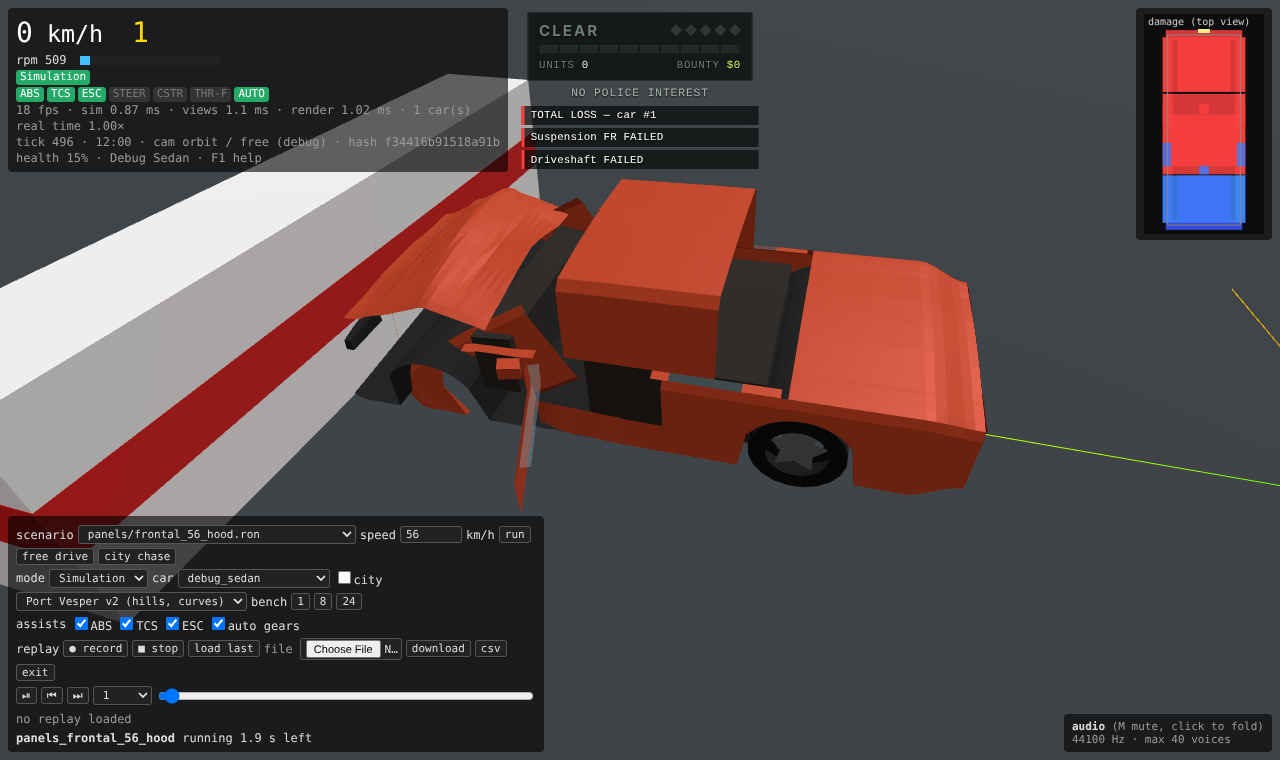
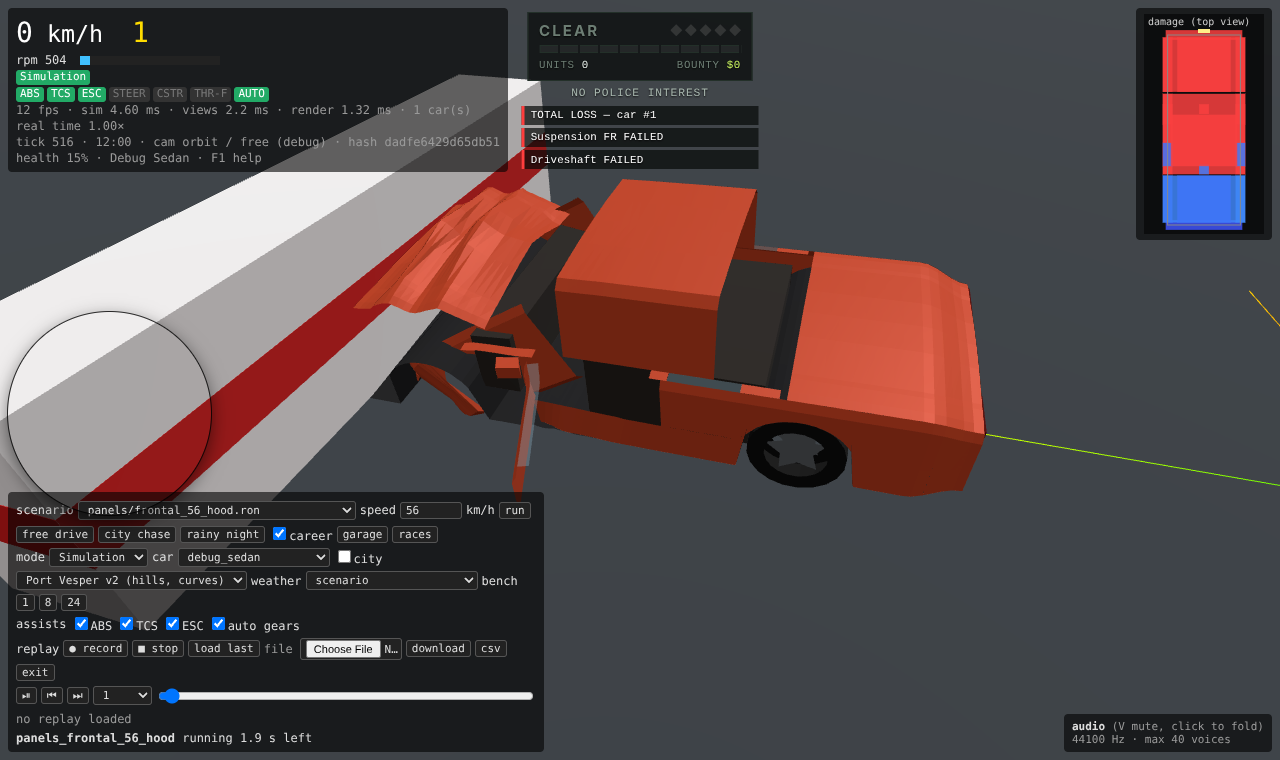
panels: round 12b crumple — browser check, before/after shots, docs
panels_shots.mjs checks the 50 km/h car hit (hood buckles, nose follows the crushed
front, fenders buckle); crumple before/after shots at 8 m / 30 m; mesh format 3 docs;
integration doc round 12b section with the measurement matrix.

Claude-Session: https://claude.ai/code/session_01BwBsLY6QZWcB8th8KqTLUJ

diff --git a/tools/assets/src/skin.rs b/tools/assets/src/skin.rs
@@ -519,7 +519,7 @@ pub fn deform_detail(
     });
     let mut out = Vec::with_capacity(part.vertex_count());
     let mut detail = vec![[0.0f32; 2]; part.vertex_count()];
-    for v in 0..part.vertex_count() {
+    for (v, dv) in detail.iter_mut().enumerate() {
         let r = part.vertex(v);
         let mut p = r;
         if part.skin_nodes.len() == part.vertex_count() * 4 {
@@ -538,10 +538,10 @@ pub fn deform_detail(
             let lead = f.weights[v * 3 + 2] as f32 / 255.0;
             let rear = if free { FOLD_REAR_LIFT * lift } else { 0.0 };
             let rise = c.height * (crease + rear) + c.pop * lead * lead;
-            for k in 0..3 {
-                p[k] += f.dir[k] * rise - c.u[k] * c.extra * lead;
+            for (k, pk) in p.iter_mut().enumerate() {
+                *pk += f.dir[k] * rise - c.u[k] * c.extra * lead;
             }
-            detail[v] = [rise, c.extra * lead];
+            *dv = [rise, c.extra * lead];
         }
         out.push(p);
     }

diff --git a/docs/integration/panels.md b/docs/integration/panels.md
@@ -24,15 +24,16 @@
   the lattice allows, front doors, rear doors on 4-door lattices, fenders as synthetic groups).
 - **Meshes**: `data/panels/meshes/<car>.json` for all 16 cars, 3.5k–4.6k tris, ~36 parts (one per
   region + glass, lights, mirrors, interior, underbody, wheels), skinned region-aware to the lattice.
-- **Hood crumple (playtest row 31)**: hood and trunk lids buckle. The lattice hood is a flat
-  3×5 node sheet that shortens and slides back in a frontal but never folds, so the mesh used to
-  slide back flat. The mesh now carries a fold binding (format 2: hinge→latch node chords +
-  per-vertex crease / rear-lift weights); the renderer turns each chord's lost length into a fold
-  height (inextensible tent, 1.5 cm dead zone, ≤ 0.3 m): a peak a little ahead of mid-hood with a
-  diagonal skew and a second crease toward the latch, plus a raised rear edge once the hood is
-  unlatched. 56 km/h full-width frontal (real sim, Rapier barrier): hood vertices move 0.33–0.48 m,
-  fold 0.22 m (debug_sedan, sentinel_cruiser); 40 km/h Arcade: 0.19 m / 0.16 m. A parked car's hood
-  is exactly flat.
+- **Front crumple (playtest row 31, lead feedback round 12b)**: hood, trunk lid and front fenders
+  crumple in the renderer (visual only; lattice, hull, mechanical damage and repair bill
+  unchanged). Mesh format 3 `fold` binding: the panel's leading end follows the crushed front
+  structure (bumper, frame, fender noses; a hanging bumper is rotated back to the crushed pose it
+  was released in), the shortening × a visual gain (hood 1.8, trunk 1.4, fenders 1.5) becomes a
+  fold — two diagonal ridges with a valley, tented at the centre line (lids, ≤ 0.28 m) or an
+  outward buckle ahead of the wheel (fenders, ≤ 0.12 m) — and an unlatched lid pops 9 cm at the
+  latch and bows up at the hinge. The renderer keeps the deepest crumple per chord (no spring-back)
+  and clears it on repair. 50 km/h Arcade frontal: hood fold 0.21–0.28 m, 2–4 fold lines, nose on
+  the crushed front (± 1 cm); see the round 12b section for the full matrix. A parked car is flat.
 - **Lights (playtest rows 22, 31)**: head/tail lenses sit on the outer surface of the nose / tail
   face (15 mm proud, facing out) and are skinned to the nearest bumper, hood/trunk, same-side
   fender/quarter and frame nodes, so they crush and move with the bumper and hood. A lens breaks
@@ -56,8 +57,11 @@
   unchanged); entity metrics `panels_unlatched`, `panels_hanging`, `max_panel_angle_rad`.
 - wasm `panel_states(entity) -> Float32Array`, `PANEL_STRIDE = 10` floats per panel:
   `[region index, state (0..3), angle, ω, pivot xyz, axis xyz]`.
-- Files: `data/panels/<car>.json`, `data/panels/meshes/<car>.json` (format: `data/panels/README.md`).
-- Tools: `cargo run -p car-assets --bin {gen-panels, gen-car-mesh, bind-skin, validate-car-asset, panels-bench}`.
+- Files: `data/panels/<car>.json`, `data/panels/meshes/<car>.json` (format 3: `data/panels/README.md`).
+- Tools: `cargo run -p car-assets --bin {gen-panels, gen-car-mesh, bind-skin, validate-car-asset, panels-bench}`;
+  `--example crumple_matrix` (front crumple numbers); `node tools/assets/{panels_shots,crumple_shots}.mjs`.
+- `car_assets::crumple::{render_part, render_detail, measure}` and `car_assets::skin::{deform, deform_detail}`:
+  Rust reference of the browser panel skinning (incl. free-panel frames and the crumple).
 
 ## Needs
 - **C (testbed)**: please keep the small hooks listed below when you edit those files; the
@@ -69,6 +73,11 @@
   `sentinel_bastion`) have all their Trunk nodes on the hinge line, so they cannot swing; a
   second row of tailgate nodes would make them panels. Lattice doors are only ~0.26 m deep
   (real doors ~1 m); the panel spec uses real sizes for inertia/aero, the mesh uses real sizes.
+- **B (damage)**: the visual crumple is driven by lattice node motion (front structure push and
+  the lid's own chord loss), not by component health, so B's Arcade *mechanical* retune does not
+  change it. If the retune also reduces Arcade lattice crush, please tell R:
+  `cargo run --release -p car-assets --example crumple_matrix -- Arcade` gives the new numbers and
+  the gains (`tools/assets/src/mesh.rs`, `*_CRUMPLE_GAIN`) can follow.
 - **Lead**: Rapier debris body poses are not exposed to the browser (`Sim` keeps the handles
   private); the testbed draws its own ballistic debris. A `Sim::debris_poses()` would fix that.
 
@@ -104,7 +113,7 @@ release; per car; ms/frame = 4 physics steps):
 | Idle car, panels attached vs none | cloud 4 vCPU | 0.51 vs 0.44 µs/step (0.002 ms/frame) | — | — |
 | 40 km/h side hit + 2 s swing (2.4 s avg), panels vs none | cloud 4 vCPU | 24.7 vs 17.9 µs/step (0.099 vs 0.072 ms/frame) | — | 0.25 ms/car (lattice) |
 | Swing only (3 panels swinging per car, lattice asleep) | cloud 4 vCPU | 2.7 µs/step (0.011 ms/frame) | — | 0.25 ms/car |
-| Panel mesh skinning in JS (≈3k vertices + `panel_states`, per car per frame) | cloud, headless Chromium (SwiftShader) | — | 0.21 ms (round 2 with fold + light checks: 0.15–0.18 ms) | — |
+| Panel mesh skinning in JS (≈3k vertices + `panel_states`, per car per frame) | cloud, headless Chromium (SwiftShader) | — | 0.21 ms (round 2 with fold + light checks: 0.15–0.18 ms; round 12b with hood/trunk/fender crumple: 0.22 ms) | — |
 
 Panels add ~0.03 ms/frame per crashing car on top of the lattice and ~0.01 ms/frame per car with
 swinging panels; both inside the 0.25 ms/car lattice budget.
@@ -117,8 +126,11 @@ except **city chase** ("speeding violations in the feed" false) — it fails ide
 turned off in the presets, so it is pre-existing on current `main` (C / lead: please look).
 
 ## Known gaps
-- The hood/trunk fold is visual (renderer): the lattice nodes, hull collider and repair bill see
-  the crushed-but-flat hood. Lens breaking is visual too and per lens; the sim's
+- The hood/trunk/fender crumple is visual (renderer): the lattice nodes, hull collider and repair
+  bill see the crushed-but-flat panels. The crumple memory catches a panel's own transient crush
+  only in rendered frames (a hanging bumper is exact at any frame rate; a bumper that is crushed
+  and torn off between two frames counts only through the frame and fender nodes). Rear quarters
+  do not crumple yet (trunk lid does). Lens breaking is visual too and per lens; the sim's
   `HandlingEffects::lights_broken` (`Component::Lights`) is separate and not drawn yet.
 - A swinging panel is rigid: dents taken before it unlatched stay, new contacts push it about the
   hinge but no longer dent it.
@@ -174,3 +186,65 @@ mechanical health.
 3. Same check for fenders and bumper so the front doesn't look inconsistent.
 4. Before/after screenshots at 30 m and 8 m in docs/media/panels/; e2e/visual check updated.
 
+
+## Round 12b (2026-10-20): the hood doesn't crumple enough
+Base `origin/lead/round12`. All four items done on `ws/panels`; nothing outside my folders.
+
+**1. Measured** (`cargo run --release -p car-assets --example crumple_matrix -- Arcade`; the real
+sim through simcli, panels drawn exactly as `render/panels.ts` does via the Rust reference
+`car_assets::crumple`; 2 s after the start, renderer frame = 4 ticks). Fold = buckle rise above the
+plain skinned surface; fold lines = ridges along the hood where it bends ≥ 8° more than at rest
+(column with the most); "nose vs front" = how far the hood's leading edge sits ahead of the crushed
+front (+ = a stiff panel floating over a crushed nose; before = vs the bumper's top edge, after =
+vs the structure nodes it follows). Arcade (the owner's mode):
+
+| car | hit | km/h | hood disp max / mean, before → after | hood fold, before → after | fold lines, before → after | hood nose vs front, before (vs bumper top) → after (vs structure followed) | fender buckle / pull-back after | bumper disp |
+|---|---|---|---|---|---|---|---|---|
+| shiro_turbo | barrier | 30 | 0.03 / 0.03 → 0.24 / 0.10 | 0.00 → 0.21 | 0 → 2 | +0.23 → +0.00 | 0.10 / 0.22 | 0.46 / 0.35 |
+| shiro_turbo | barrier | 50 | 0.28 / 0.16 → 0.35 / 0.20 | 0.20 → 0.27 | 3 → 3 | +0.20 → -0.07 | 0.10 / 0.18 | 0.38 / 0.34 |
+| shiro_turbo | barrier | 70 | 0.40 / 0.25 → 0.50 / 0.32 | 0.23 → 0.29 | 3 → 4 | +0.21 → -0.03 | 0.10 / 0.31 | 0.49 / 0.42 |
+| shiro_turbo | car | 30 | 0.00 / 0.00 → 0.11 / 0.03 | 0.00 → 0.11 | 0 → 2 | +0.07 → -0.00 | 0.10 / 0.07 | 0.08 / 0.08 |
+| shiro_turbo | car | 50 | 0.02 / 0.01 → 0.23 / 0.09 | 0.00 → 0.21 | 0 → 2 | +0.22 → -0.00 | 0.10 / 0.22 | 0.47 / 0.35 |
+| shiro_turbo | car | 70 | 0.13 / 0.05 → 0.32 / 0.16 | 0.08 → 0.26 | 2 → 2 | +0.25 → -0.01 | 0.10 / 0.22 | 0.50 / 0.39 |
+| debug_sedan | barrier | 30 | 0.05 / 0.04 → 0.29 / 0.15 | 0.00 → 0.23 | 0 → 2 | +0.23 → -0.00 | 0.11 / 0.22 | 0.52 / 0.38 |
+| debug_sedan | barrier | 50 | 0.34 / 0.15 → 0.39 / 0.22 | 0.27 → 0.28 | 4 → 4 | +0.28 → -0.11 | 0.11 / 0.19 | 0.47 / 0.43 |
+| debug_sedan | barrier | 70 | 0.38 / 0.23 → 0.57 / 0.32 | 0.26 → 0.28 | 3 → 4 | +0.24 → +0.00 | 0.11 / 0.18 | 0.50 / 0.43 |
+| debug_sedan | car | 30 | 0.00 / 0.00 → 0.12 / 0.03 | 0.00 → 0.12 | 0 → 2 | +0.07 → -0.00 | 0.11 / 0.08 | 0.09 / 0.08 |
+| debug_sedan | car | 50 | 0.03 / 0.02 → 0.23 / 0.10 | 0.00 → 0.21 | 0 → 2 | +0.23 → +0.01 | 0.11 / 0.22 | 0.52 / 0.38 |
+| debug_sedan | car | 70 | 0.15 / 0.05 → 0.31 / 0.17 | 0.11 → 0.25 | 2 → 2 | +0.26 → -0.00 | 0.11 / 0.22 | 0.56 / 0.42 |
+| sentinel_cruiser | barrier | 30 | 0.05 / 0.02 → 0.18 / 0.10 | 0.00 → 0.13 | 2 → 3 | +0.01 → -0.01 | 0.06 / 0.02 | 0.04 / 0.03 |
+| sentinel_cruiser | barrier | 50 | 0.14 / 0.05 → 0.35 / 0.18 | 0.09 → 0.28 | 3 → 4 | +0.18 → -0.02 | 0.11 / 0.18 | 0.49 / 0.34 |
+| sentinel_cruiser | barrier | 70 | 0.30 / 0.17 → 0.50 / 0.26 | 0.26 → 0.28 | 3 → 4 | +0.26 → -0.01 | 0.11 / 0.44 | 0.69 / 0.55 |
+| sentinel_cruiser | car | 30 | 0.00 / 0.00 → 0.00 / 0.00 | 0.00 → 0.00 | 0 → 0 | +0.00 → -0.00 | 0.00 / 0.00 | 0.00 / 0.00 |
+| sentinel_cruiser | car | 50 | 0.01 / 0.00 → 0.10 / 0.03 | 0.00 → 0.09 | 0 → 2 | +0.00 → -0.01 | 0.00 / 0.01 | 0.01 / 0.01 |
+| sentinel_cruiser | car | 70 | 0.05 / 0.02 → 0.21 / 0.11 | 0.00 → 0.16 | 1 → 3 | +0.03 → -0.02 | 0.08 / 0.03 | 0.04 / 0.03 |
+
+Findings that drove the fix: in car-to-car hits the bumper crushed 0.4–0.5 m and let go while the
+hood barely moved (≤ 3 cm) — the hood floated 20–28 cm ahead of a crushed nose; the frame behind
+the bumper barely moves in Arcade (≤ 5 cm at 50 km/h); the bumper crushes and tears off within a
+few physics ticks, so a renderer that only looks at the current pose misses it. Simulation mode
+(same command with `Simulation`): hood fold 0.18–0.29 m at 30–70 km/h, nose −0.12…−0.02.
+
+**2. Hood reads in chase cam** (`tools/assets/src/{mesh,skin}.rs`, `render/panels.ts`, mesh format
+3, see "What works" and `data/panels/README.md`): leading edge follows the crushed front (bumper
+rotated back from its hanging pose, frame, fender noses), visual gain 1.8 on the shortening, two
+ridges + valley tented at the centre line (1 fold line in light hits, 2–4 in 50 km/h+), latch pop
+9 cm + hinge-edge bow once the latch lets go, crumple memory (no spring-back, cleared on repair).
+Visual only: no lattice, hull or mechanical change (no golden or state hash changed).
+Frame-rate independent: 50 km/h car hit gives hood fold 0.208 m at 60, 30 and 15 fps (Rust) and
+0.208 m in headless Chromium (~28 fps).
+
+**3. Fenders and bumper**: front fenders get the same binding (outward-and-up buckle ≤ 12 cm,
+nose follows the bumper/frame), so the fender tops crumple with the hood instead of staying
+flat beside it; the bumper follows its own nodes (it is the crush reference, gain 1).
+
+**4. Shots and checks**: `docs/media/panels/crumple_{before,after}_{frontal_50_car,frontal_50_barrier,frontal_70_barrier}_{8m,30m}.png`
+(`node tools/assets/crumple_shots.mjs`; "before" = the old renderer and format-2 meshes from a
+worktree at 11cbf48, same sim), `frontal_50_car_hood_crumpled.png`, `frontal_56_hood_buckled.png`.
+New scenarios `apps/simcli/scenarios/panels/frontal_50_{barrier,car}_arcade.ron` (ranges only).
+`tools/assets/panels_shots.mjs` checks the 50 km/h car hit in the browser (hood fold ≥ 12 cm,
+nose pulled back ≥ 5 cm, both fenders buckle ≥ 4 cm). Tests (`tools/assets/tests/assets.rs`):
+`front_crumples_and_follows_the_crushed_front` (sedan/sports/cruiser, barrier/car, Arcade +
+Simulation, at 30 fps), `crumple_does_not_depend_on_frame_rate`, `harder_hits_crumple_more`,
+`a_parked_car_has_a_flat_front`, `the_hood_nose_follows_a_crushed_bumper_and_the_memory_holds_until_repair`,
+`a_hanging_bumper_still_counts_as_crushed`, `an_unlatched_hood_pops_at_the_latch`.

diff --git a/data/panels/README.md b/data/panels/README.md
@@ -51,16 +51,37 @@ part of the front-door mesh; see `docs/integration/panels.md`, contract request 
 
 ## Mesh (`meshes/<car>.json`)
 
-`{ id, lattice_id, format: 2, tri_count, parts: [...] }`, one part per line. Part fields:
+`{ id, lattice_id, format: 3, tri_count, parts: [...] }`, one part per line. Part fields:
 `name`, `region` (BodyRegion or `null` for wheels), `kind` (`panel | glass | light | mirror |
 body | interior | tire | rim`), `material` (`paint | glass | trim | headlight | taillight | rubber
 | metal | interior`), `wheel` (0–3 FL FR RL RR, wheel parts only, hub space with the axle on +X),
 `positions_mm` (xyz ints, mm, chassis space), `uvs` (u, v in 1/65535; U 0–0.5 reserved for
 liveries), `indices` (CCW from outside), `skin_nodes` (4 lattice node ids per vertex) and
-`skin_weights` (4 per vertex in 1/255, summing to 255). Format 2 adds, on hood and trunk-lid
-parts only, `fold_chords` (lattice node pairs from the hinge row to the latch row, sorted by rest
-x) and `fold_weights` (2 per vertex in 1/255: crease shape, rear-edge lift); the renderer turns
-the length a chord loses in a crash into a fold height (`car_assets::mesh::fold_height`, an
-inextensible strip pushed into a tent; 1.5 cm dead zone, ≤ 0.3 m) so a crushed lid buckles.
+`skin_weights` (4 per vertex in 1/255, summing to 255).
+
+Format 3 (replaces format 2's `fold_chords` / `fold_weights`): hood, trunk-lid and front-fender
+parts carry `fold` (`car_assets::mesh::FoldBinding`), how the sheet crumples in the renderer —
+visual only, the lattice, hull and repair bill never see it:
+- `chords`: lattice node pairs from the fixed end (lid hinge row; fender rear row) to the
+  leading end (latch row; fender nose), sorted along `across` (0 = x for lids, 2 = z for fenders);
+- `leads`: per chord the three front-structure nodes nearest its leading node (hood: bumper,
+  frame, fenders; trunk: rear bumper, frame, quarters; fenders: bumper, frame). When they moved
+  toward the fixed end further than the panel's own leading node, the panel's front is pulled
+  back by the difference, so it never floats over a crushed nose. A hanging bumper's nodes are
+  rotated back about its mount (the crushed pose it was released in); a detached one's skipped;
+- `gain` (visual crumple gain: hood 1.8, trunk 1.4, fenders 1.5), `max_m` (lid 0.28 m, fender
+  0.12 m), `pop_m` (lids 0.09 m), `dir` (buckle direction: lids up, fenders outward and up);
+- `weights`: 3 per vertex in 1/255 — crease shape (lids: main ridge a little behind mid-lid, a
+  valley, a second ridge toward the latch, diagonal, tented at the centre line; fenders: one
+  ridge ahead of the wheel), fixed-edge lift (lids), leading-end follow (0 at the fixed row → 1 at
+  the leading row; its square shapes the latch pop).
+
+Per chord the effective shortening `gain × max(own chord loss, lead push)` (1.5 cm dead zone)
+becomes a fold height `0.7 × fold_height` (an inextensible strip pushed into a tent), capped at
+`max_m`; once the lid is unlatched or hangs, the hinge edge bows up (0.45 × fold) and the latch
+edge pops up by `pop_m`. The renderer keeps the largest shortening / pull-back per chord (sheet
+metal does not spring back) and clears it when every bound node is back at rest (repair).
+`car_assets::skin::deform_detail` and `car_assets::crumple::render_part` are the Rust reference
+of `render/panels.ts`.
 Light lenses (`kind: light`) have region `FrameFront` / `FrameRear` and are skinned to the nearest
 bumper, hood/trunk, same-side fender/quarter and frame nodes. Renderer: `apps/testbed-web/src/render/panels.ts`.

diff --git a/tools/assets/README.md b/tools/assets/README.md
@@ -15,6 +15,9 @@ cargo run -p car-assets --bin validate-car-asset [car ...]
 cargo run --release -p car-assets --bin panels-bench # perf, 24 cars
 cargo run --release -p car-assets --example panel_probe -- apps/simcli/scenarios/panels/side_swipe_door.ron
 cargo test -p car-assets                             # every car valid + meshes up to date
+cargo run --release -p car-assets --example crumple_matrix -- Arcade [frame ticks]  # hood/fender/bumper crumple, 30/50/70 km/h
+node tools/assets/panels_shots.mjs                   # browser checks + screenshots (docs/media/panels)
+node tools/assets/crumple_shots.mjs after            # hood crumple shots at 8 m / 30 m
 ```
 
 ## Mesh generator (`src/profile.rs`, `src/mesh.rs`)
@@ -41,10 +44,11 @@ cargo test -p car-assets                             # every car valid + meshes 
 to 255. Region-aware: a hood vertex never follows a fender node. Regions with fewer than four
 nodes (glass, 2-door side strips) borrow from their fallback regions (roof/cabin, quarter).
 Light lenses bind to the 4 nearest nodes of their end of the car (bumper, hood/trunk, same-side
-fender/quarter, frame), so they crush and move with the bumper and hood. Hood and trunk lids also
-get a fold binding (`bind_fold`): hinge-row → latch-row node chords and per-vertex crease and
-rear-lift weights (see `data/panels/README.md`). `skin::deform` is the Rust reference of the
-browser skinning (tests use it).
+fender/quarter, frame), so they crush and move with the bumper and hood. Hood and trunk lids and
+the front fenders also get a crumple binding (`bind_fold`, mesh format 3): fixed-row → leading-row
+node chords, front-structure lead nodes per chord, a visual gain and per-vertex crease, lift and
+follow weights (see `data/panels/README.md`). `skin::deform` / `skin::deform_detail` and
+`crumple::render_part` are the Rust reference of the browser skinning (tests use them).
 Writes into the mesh file (not `LatticeDef::skin_binding`, which would bloat the lattices; the
 contract field stays available for hand-made meshes).
 
